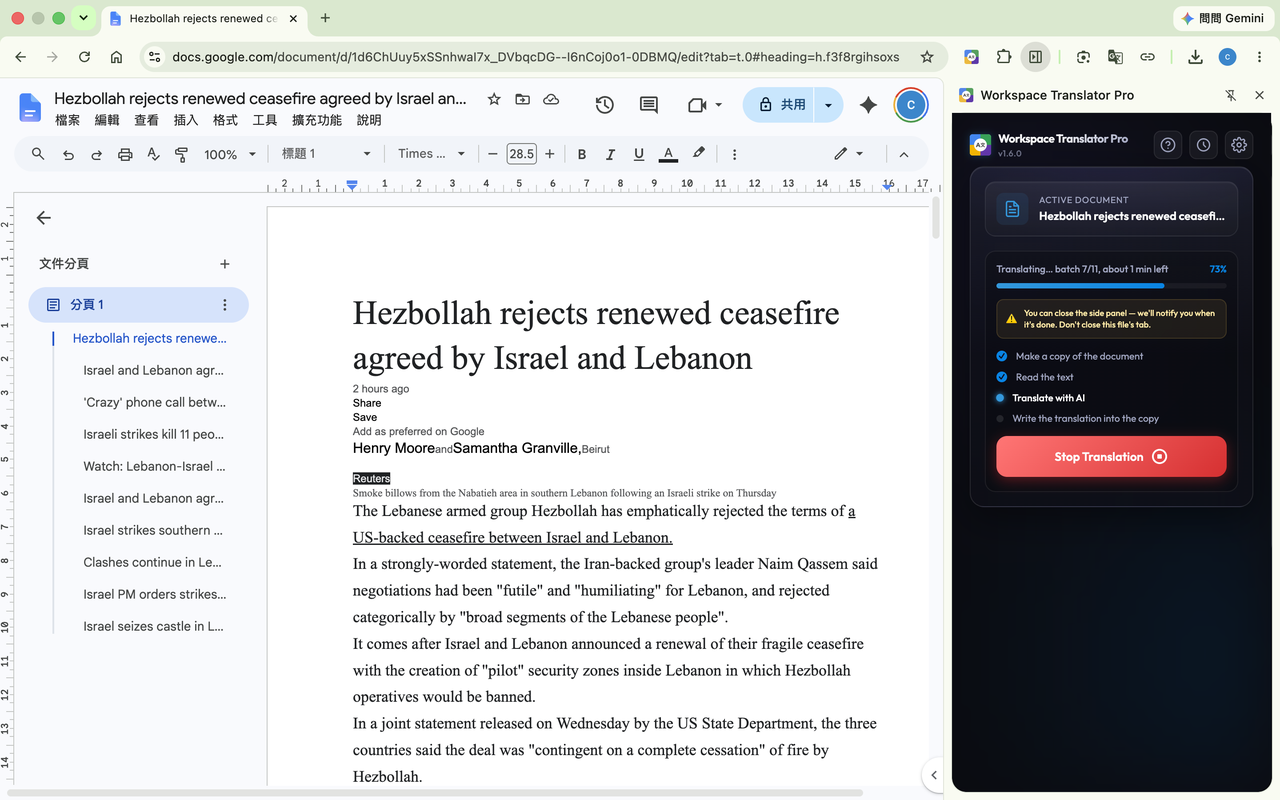
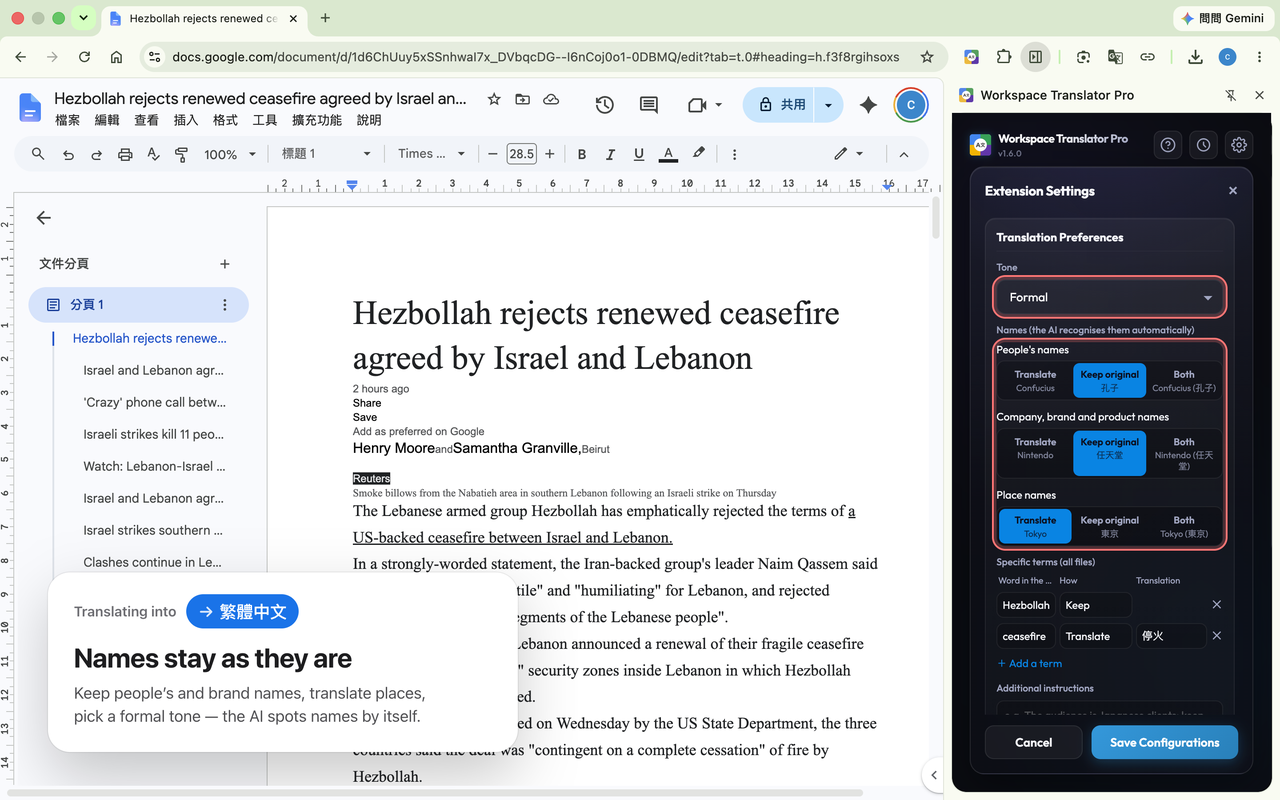
store+guide: language-first photo screenshots with feature captions; 'free to use' wording
- Each real-photo screenshot now shows the chosen target language in the
  panel and one feature outlined: slide range (vi), formal tone + names kept
  (zh-TW), current sheet only (en), fixed term ブランド → marca (es); plus a
  caption card led by 'Translating into <language>'. Demo mode accepts
  tone/names/terms/range/sheetOnly/marks parameters.
- Guide: Gemini is 'free to use' instead of 'most affordable' / 'lowest cost'
  (which implied paying), in all 10 languages.
- Fix: the 'When translating, the AI will' preview capitalised category names
  mid-sentence ('Keep People's names'); lower-cased for en/es/fr/vi.

diff --git a/lib/demo-mode.js b/lib/demo-mode.js
@@ -25,8 +25,9 @@
     modelName: 'gemini-3.1-flash-lite', setupSkipped: true, lastSelectedLang: params.get('lang') || (ui === 'ja' ? 'en' : 'ja'),
     autoOpenResult: true, fitTextToBoxes: true,
     translationPrefs: {
-      tone: 'keep', names: { people: 'keep', brands: 'annotate', places: 'translate' },
-      terms: [{ src: 'Roadmap', mode: 'translate', dst: 'ロードマップ' }, { src: 'Acme Cloud', mode: 'keep', dst: '' }],
+      tone: params.get('tone') || 'keep',
+      names: JSON.parse(params.get('names') || 'null') || { people: 'keep', brands: 'annotate', places: 'translate' },
+      terms: JSON.parse(params.get('terms') || 'null') || [{ src: 'Roadmap', mode: 'translate', dst: 'ロードマップ' }, { src: 'Acme Cloud', mode: 'keep', dst: '' }],
       custom: '',
     },
   };
@@ -94,16 +95,27 @@
   const wait = (ms) => new Promise((r) => setTimeout(r, ms));
   const finish = () => document.getAnimations().forEach((a) => { try { a.finish(); } catch (_) {} });
   const mark = (sel) => { if (highlight) $(sel)?.classList.add('demo-highlight'); };
+  // Optional explicit outlines (?marks=lang,range,…) — used by the store photos.
+  const MARKS = {
+    lang: '#select-lang', range: '#scope-slides', sheet: '#scope-sheet', translate: '#btn-translate',
+    names: '.name-modes', terms: '#terms-global', tone: '#pref-tone', done: '#completion-card',
+  };
+  const explicitMarks = (params.get('marks') || '').split(',').filter((k) => MARKS[k]);
 
   async function apply() {
     document.documentElement.classList.add('demo-mode');
     await wait(600); // let popup.js load the locale and render
     if (state === 'main') {
-      $('#extra-langs-box').open = true;
-      for (const code of ['ko', 'zh-TW']) document.querySelector(`.lang-chip[data-code="${code}"]`)?.click();
-      $('#slide-range').value = '1-12';
+      if (params.has('range')) {
+        $('#slide-range').value = params.get('range');
+      } else {
+        $('#extra-langs-box').open = true;
+        for (const code of ['ko', 'zh-TW']) document.querySelector(`.lang-chip[data-code="${code}"]`)?.click();
+        $('#slide-range').value = '1-12';
+      }
       mark('#btn-translate');
     }
+    if (params.get('sheetOnly') === '1') { const box = $('#sheet-current-only'); if (box) box.checked = true; }
     if (state === 'setup') mark('#btn-setup-getkey');
     if (state === 'setup-done') {
       const key = $('#setup-key');
@@ -124,13 +136,16 @@
         // Scroll only the settings list. scrollIntoView() would also scroll the
         // page that embeds this panel (the user guide).
         const sc = document.querySelector('#settings-panel .settings-scroll-container');
-        const card = document.querySelector('#prefs-card');
-        sc.scrollTop += card.getBoundingClientRect().top - sc.getBoundingClientRect().top;
+        const target = params.get('scroll') === 'terms'
+          ? document.querySelector('#terms-global').parentElement
+          : document.querySelector('#prefs-card');
+        sc.scrollTop += target.getBoundingClientRect().top - sc.getBoundingClientRect().top - 8;
         mark('.name-modes');
       } else {
         mark('#btn-test-api');
       }
     }
+    for (const key of explicitMarks) $(MARKS[key])?.classList.add('demo-highlight');
     finish();
     document.documentElement.dataset.demoReady = '1';
   }

diff --git a/store-assets/caption.html b/store-assets/caption.html
@@ -1,0 +1,41 @@
+<!DOCTYPE html>
+<!-- Store photos only: the caption card pasted onto each real-photo screenshot
+     by store-assets/retouch.py. Rendered on a transparent background. -->
+<html><head><meta charset="UTF-8">
+<style>
+  html, body { margin: 0; background: transparent; }
+  body {
+    font-family: -apple-system, BlinkMacSystemFont, "SF Pro Display", "Helvetica Neue", "PingFang TC",
+                 "Hiragino Sans", "Apple SD Gothic Neo", "Noto Sans", "Noto Sans Thai", sans-serif;
+    -webkit-font-smoothing: antialiased; letter-spacing: -0.01em;
+  }
+  .card {
+    position: absolute; left: 30px; bottom: 34px; width: 470px; box-sizing: border-box;
+    padding: 22px 26px 24px; border-radius: 22px; background: #ffffff;
+    box-shadow: 0 24px 60px rgba(0, 0, 0, 0.22), 0 0 0 1px rgba(0, 0, 0, 0.06);
+    color: #1d1d1f;
+  }
+  .lang { display: flex; align-items: center; gap: 10px; font-size: 14px; font-weight: 600; color: #6e6e73; }
+  .chip {
+    display: inline-flex; align-items: center; gap: 6px; padding: 5px 12px; border-radius: 980px;
+    font-size: 17px; font-weight: 700; color: #fff; background: var(--accent);
+  }
+  .chip::before { content: '→'; font-weight: 600; opacity: 0.85; }
+  h1 { margin: 14px 0 0; font-size: 27px; line-height: 1.15; font-weight: 700; letter-spacing: -0.02em; }
+  p { margin: 8px 0 0; font-size: 16px; line-height: 1.45; color: #515154; text-wrap: balance; }
+</style></head>
+<body>
+  <div class="card" id="card">
+    <div class="lang"><span id="label"></span><span class="chip" id="chip"></span></div>
+    <h1 id="title"></h1>
+    <p id="sub"></p>
+  </div>
+<script>
+  const q = new URLSearchParams(location.search);
+  document.getElementById('label').textContent = q.get('label') || 'Translating into';
+  document.getElementById('chip').textContent = q.get('lang');
+  document.getElementById('title').textContent = q.get('title');
+  document.getElementById('sub').textContent = q.get('sub');
+  document.getElementById('card').style.setProperty('--accent', q.get('accent') || '#0071e3');
+</script>
+</body></html>

diff --git a/popup.js b/popup.js
@@ -470,7 +470,12 @@ document.addEventListener('DOMContentLoaded', async () => {
   function updateRulesPreview() {
     const items = [];
     if (prefTone.value !== 'keep') items.push(t('prefs.preview.tone', { tone: t(`prefs.tone.${prefTone.value}`) }));
-    const listOf = (mode) => NAME_CATEGORIES.filter((k) => nameModes[k] === mode).map((k) => t(`prefs.keep.${k}`)).join(t('prefs.preview.listSep'));
+    // Category labels are capitalised as headings; mid-sentence they shouldn't be
+    // (German nouns stay capitalised; CJK/Thai have no case).
+    const inSentence = (label) => (['en', 'es', 'fr', 'vi'].includes(document.documentElement.lang)
+      ? label.charAt(0).toLowerCase() + label.slice(1) : label);
+    const listOf = (mode) => NAME_CATEGORIES.filter((k) => nameModes[k] === mode)
+      .map((k) => inSentence(t(`prefs.keep.${k}`))).join(t('prefs.preview.listSep'));
     if (listOf('keep')) items.push(t('prefs.preview.keepCategories', { list: listOf('keep') }));
     if (listOf('annotate')) items.push(t('prefs.preview.annotateCategories', { list: listOf('annotate') }));
     for (const { src, dst } of rowsToGlossary(globalTerms.getRows())) {

diff --git a/store-assets/retouch.py b/store-assets/retouch.py
@@ -24,12 +24,35 @@ BOX = (2142, 254, 2860, 1782)          # left, top, right, bottom (px)
 RADIUS = 36                            # Chrome rounds the panel's bottom corners
 DPR = 2                                # photos are 2× retina captures
 
+import json
+# Each photo: the side panel shows the chosen language and one feature (outlined),
+# and a caption card names the language first, then the feature.
 PHOTOS = [
-    ('slide', 'presentation', 'Google_IO_2026', 'vi', 'progress'),
-    ('doc', 'document', 'Hezbollah rejects renewed ceasefire agreed by Israel and Lebanon', 'zh-TW', 'progress'),
-    ('sheets', 'spreadsheet', 'Projektcontrolling_Tabelle', 'en', 'done'),
-    ('form', 'form', '高級ファッションブランドに関する消費者調査', 'es', 'progress'),
+    dict(key='slide', accent='#e37400', lang_name='Tiếng Việt', panel=dict(
+            demo='main', type='presentation', title='Google_IO_2026', lang='vi', range='3-8', marks='lang,range'),
+         title='Pick the language — and the slides',
+         sub='Translate the whole deck or only slides\u00a03\u20118. Every layout stays exactly as it was.'),
+    dict(key='doc', accent='#1a73e8', lang_name='繁體中文', panel=dict(
+            demo='prefs', type='document', title='Hezbollah rejects renewed ceasefire agreed by Israel and Lebanon',
+            lang='zh-TW', tone='formal', marks='tone,names',
+            names=json.dumps({'people': 'keep', 'brands': 'keep', 'places': 'translate'}),
+            terms=json.dumps([{'src': 'Hezbollah', 'mode': 'keep', 'dst': ''},
+                              {'src': 'ceasefire', 'mode': 'translate', 'dst': '停火'}], ensure_ascii=False)),
+         title='Names stay as they are',
+         sub='Keep people’s and brand names, translate places, pick a formal tone — the AI spots names by itself.'),
+    dict(key='sheets', accent='#188038', lang_name='English', panel=dict(
+            demo='done', type='spreadsheet', title='Projektcontrolling_Tabelle', lang='en', sheetOnly='1', marks='sheet'),
+         title='A translated copy in minutes',
+         sub='Translate the whole workbook or only the sheet you’re on. Columns widen to fit longer text.'),
+    dict(key='form', accent='#7248b9', lang_name='Español', panel=dict(
+            demo='prefs', type='form', title='高級ファッションブランドに関する消費者調査', lang='es', scroll='terms', marks='terms',
+            terms=json.dumps([{'src': 'ブランド', 'mode': 'translate', 'dst': 'marca'},
+                              {'src': 'Gucci', 'mode': 'keep', 'dst': ''}], ensure_ascii=False)),
+         title='Your words, every time',
+         sub='Set fixed translations for your own terms — e.g. ブランド\u00a0→\u00a0marca — or keep a word untranslated.'),
 ]
+CAPTION_CSS = (560, 300)               # caption page size in CSS px (card sits bottom-left)
+PHOTO_CSS_SCALE = 2.25                 # 2880-px photo ÷ 1280-px output
 
 
 def serve():
@@ -41,9 +64,9 @@ def serve():
     return httpd
 
 
-def render_panel(ftype, title, lang, state, w, h):
+def render_panel(panel, w, h):
     from urllib.parse import urlencode
-    q = urlencode({'demo': state, 'ui': 'en', 'type': ftype, 'title': title, 'lang': lang, 'w': w, 'h': h})
+    q = urlencode({**panel, 'ui': 'en', 'w': w, 'h': h})
     out = tempfile.mktemp(suffix='.png')
     subprocess.run([
         CHROME, '--headless=new', '--hide-scrollbars', f'--force-device-scale-factor={DPR}',
@@ -55,6 +78,21 @@ def render_panel(ftype, title, lang, state, w, h):
     return img
 
 
+def render_caption(photo_def):
+    from urllib.parse import urlencode
+    cw, ch = CAPTION_CSS
+    q = urlencode({'lang': photo_def['lang_name'], 'title': photo_def['title'], 'sub': photo_def['sub'], 'accent': photo_def['accent']})
+    out = tempfile.mktemp(suffix='.png')
+    subprocess.run([
+        CHROME, '--headless=new', '--hide-scrollbars', f'--force-device-scale-factor={PHOTO_CSS_SCALE}',
+        f'--window-size={cw},{ch}', '--virtual-time-budget=3000', '--default-background-color=00000000',
+        f'--screenshot={out}', f'http://127.0.0.1:{PORT}/store-assets/caption.html?{q}',
+    ], check=True, capture_output=True, timeout=120)
+    img = Image.open(out).convert('RGBA').crop((0, 0, round(cw * PHOTO_CSS_SCALE), round(ch * PHOTO_CSS_SCALE)))
+    os.remove(out)
+    return img
+
+
 def main():
     os.makedirs(OUT, exist_ok=True)
     left, top, right, bottom = BOX
@@ -62,12 +100,16 @@ def main():
     httpd = serve()
     try:
         time.sleep(0.3)
-        for key, ftype, title, lang, state in PHOTOS:
+        for d in PHOTOS:
+            key = d['key']
             photo = Image.open(os.path.join(SRC, f'1280-800-{key}-1(原始).png')).convert('RGB')
-            panel = render_panel(ftype, title, lang, state, round(bw / DPR), round(bh / DPR)).resize((bw, bh), Image.LANCZOS)
+            panel = render_panel(d['panel'], round(bw / DPR), round(bh / DPR)).resize((bw, bh), Image.LANCZOS)
             mask = Image.new('L', (bw, bh), 0)
             ImageDraw.Draw(mask).rounded_rectangle((0, -RADIUS, bw - 1, bh - 1), RADIUS, fill=255)
             photo.paste(panel, (left, top), mask)
+            caption = render_caption(d)
+            # bottom-left of the editor area, 18 css px in from the edges
+            photo.paste(caption, (round(18 * PHOTO_CSS_SCALE), photo.height - caption.height - round(14 * PHOTO_CSS_SCALE)), caption)
             final = photo.resize((1280, 800), Image.LANCZOS)
             path = os.path.join(OUT, f'photo-{key}.png')
             final.save(path, 'PNG', optimize=True)
